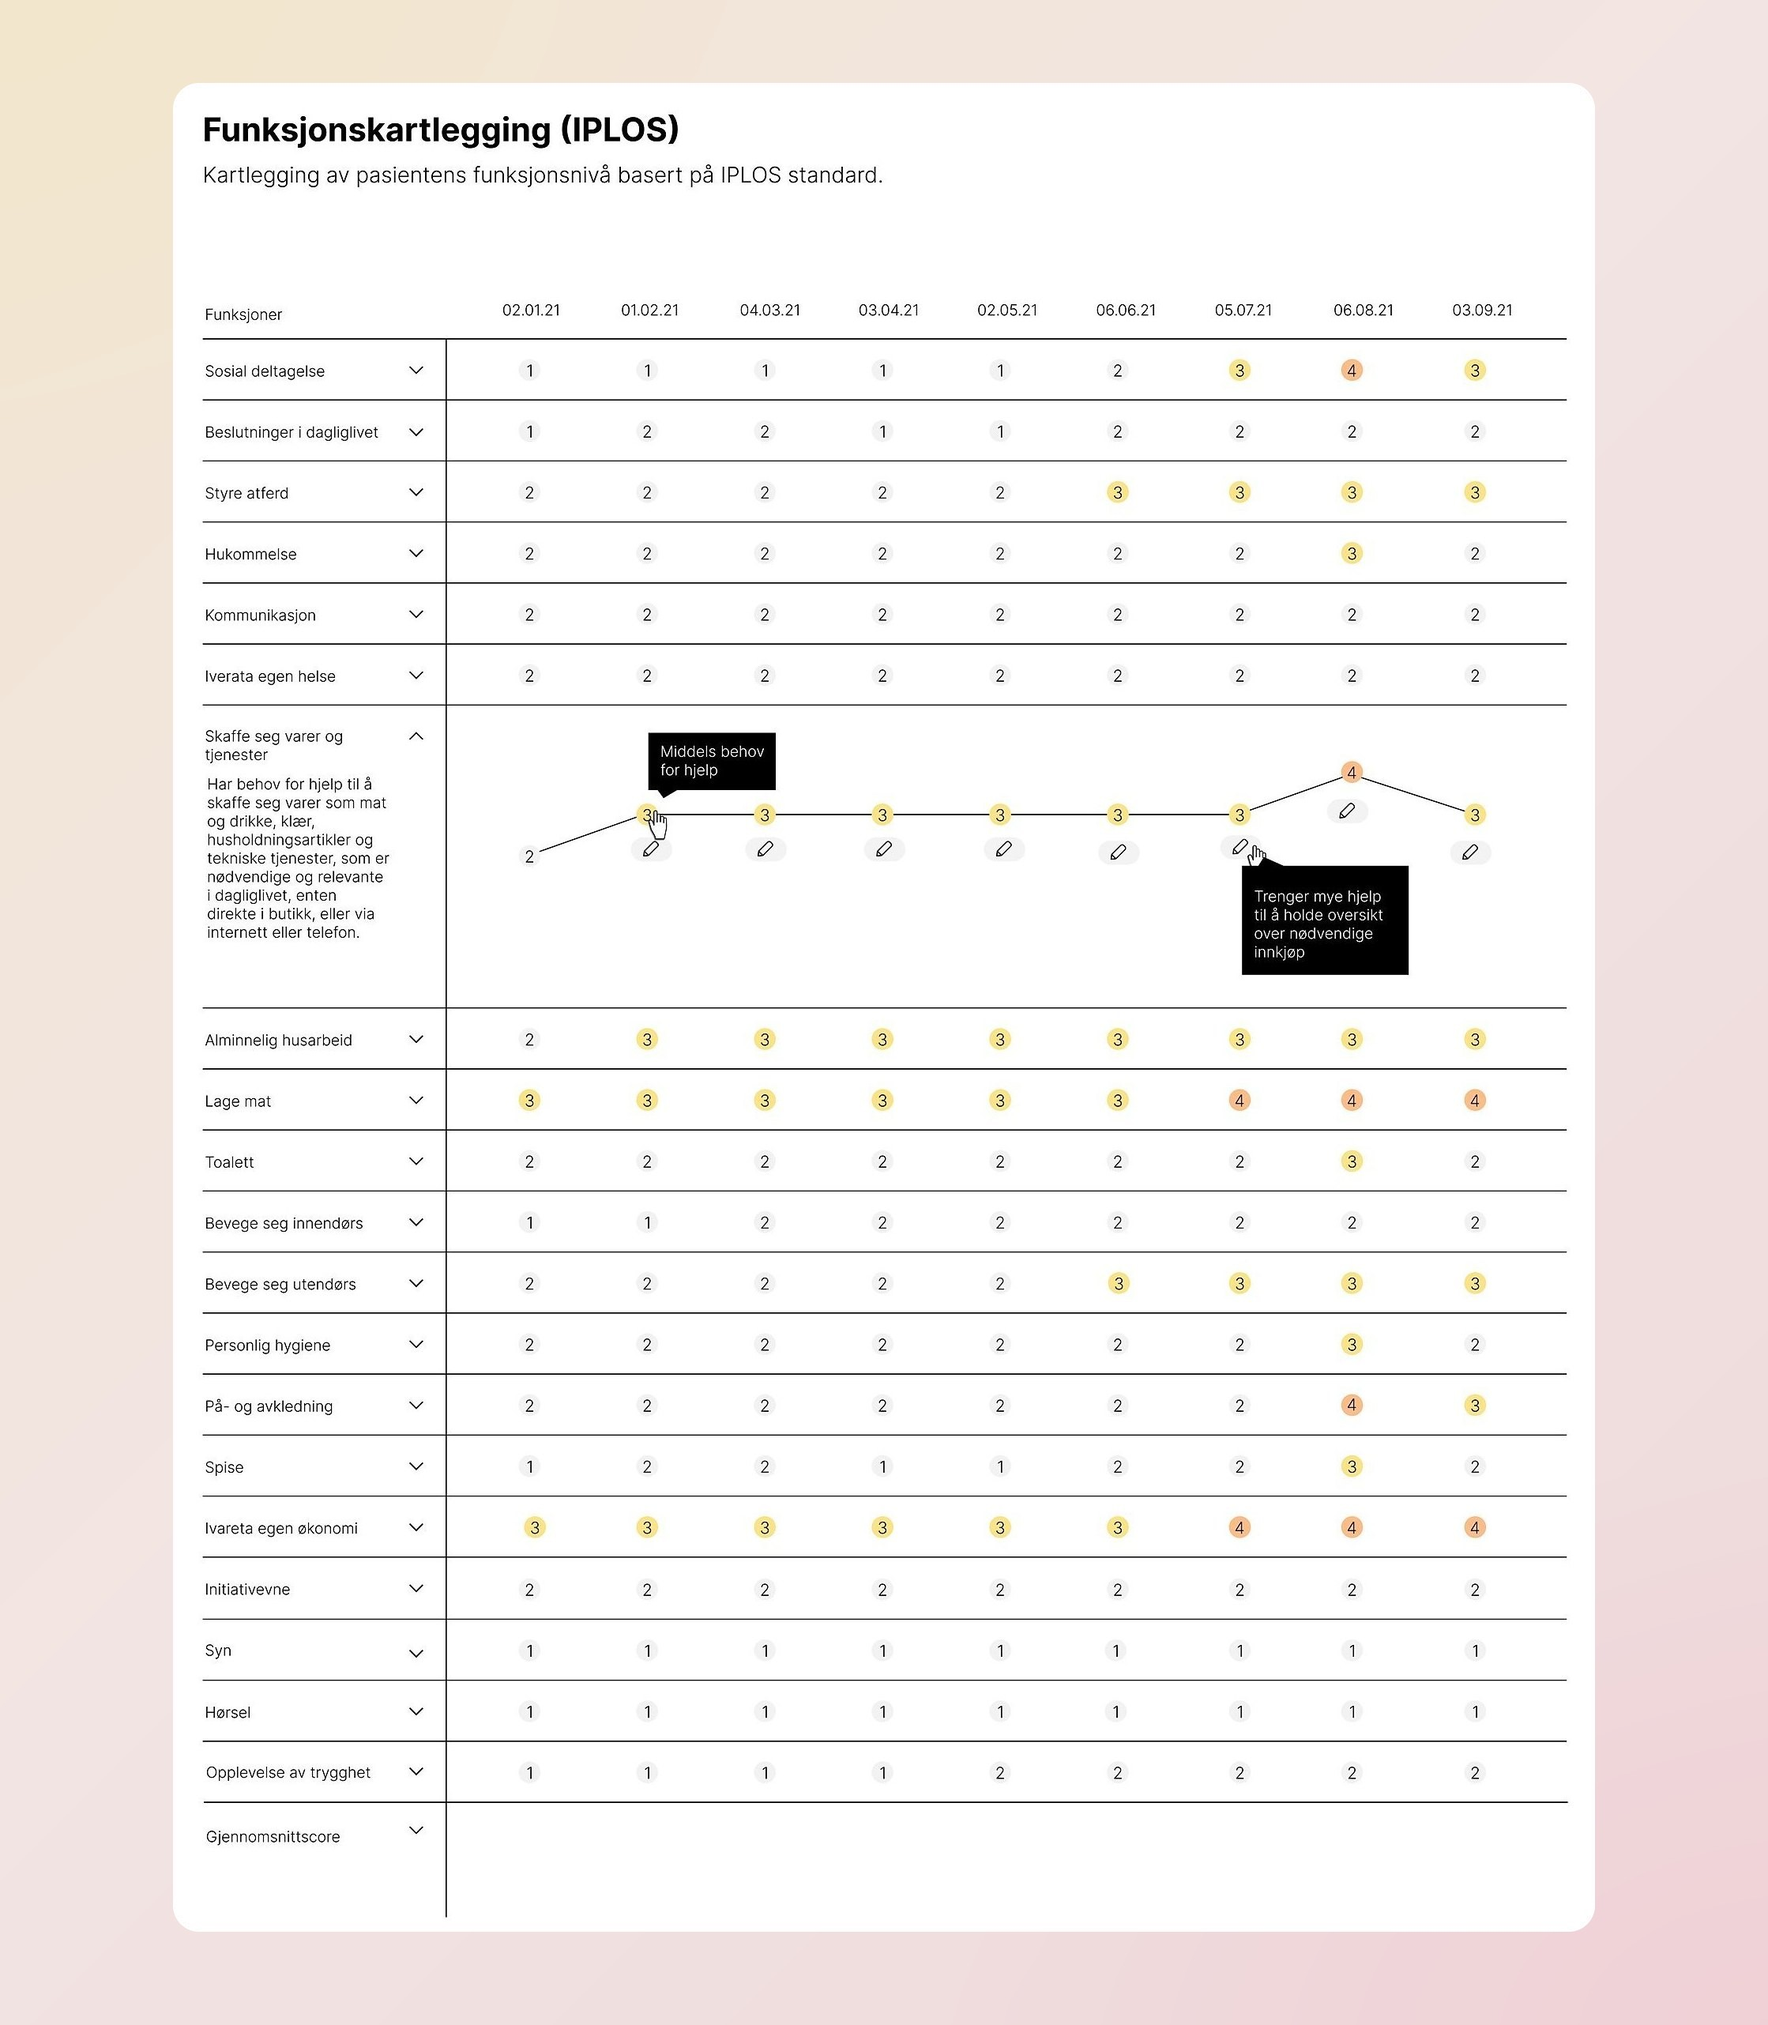
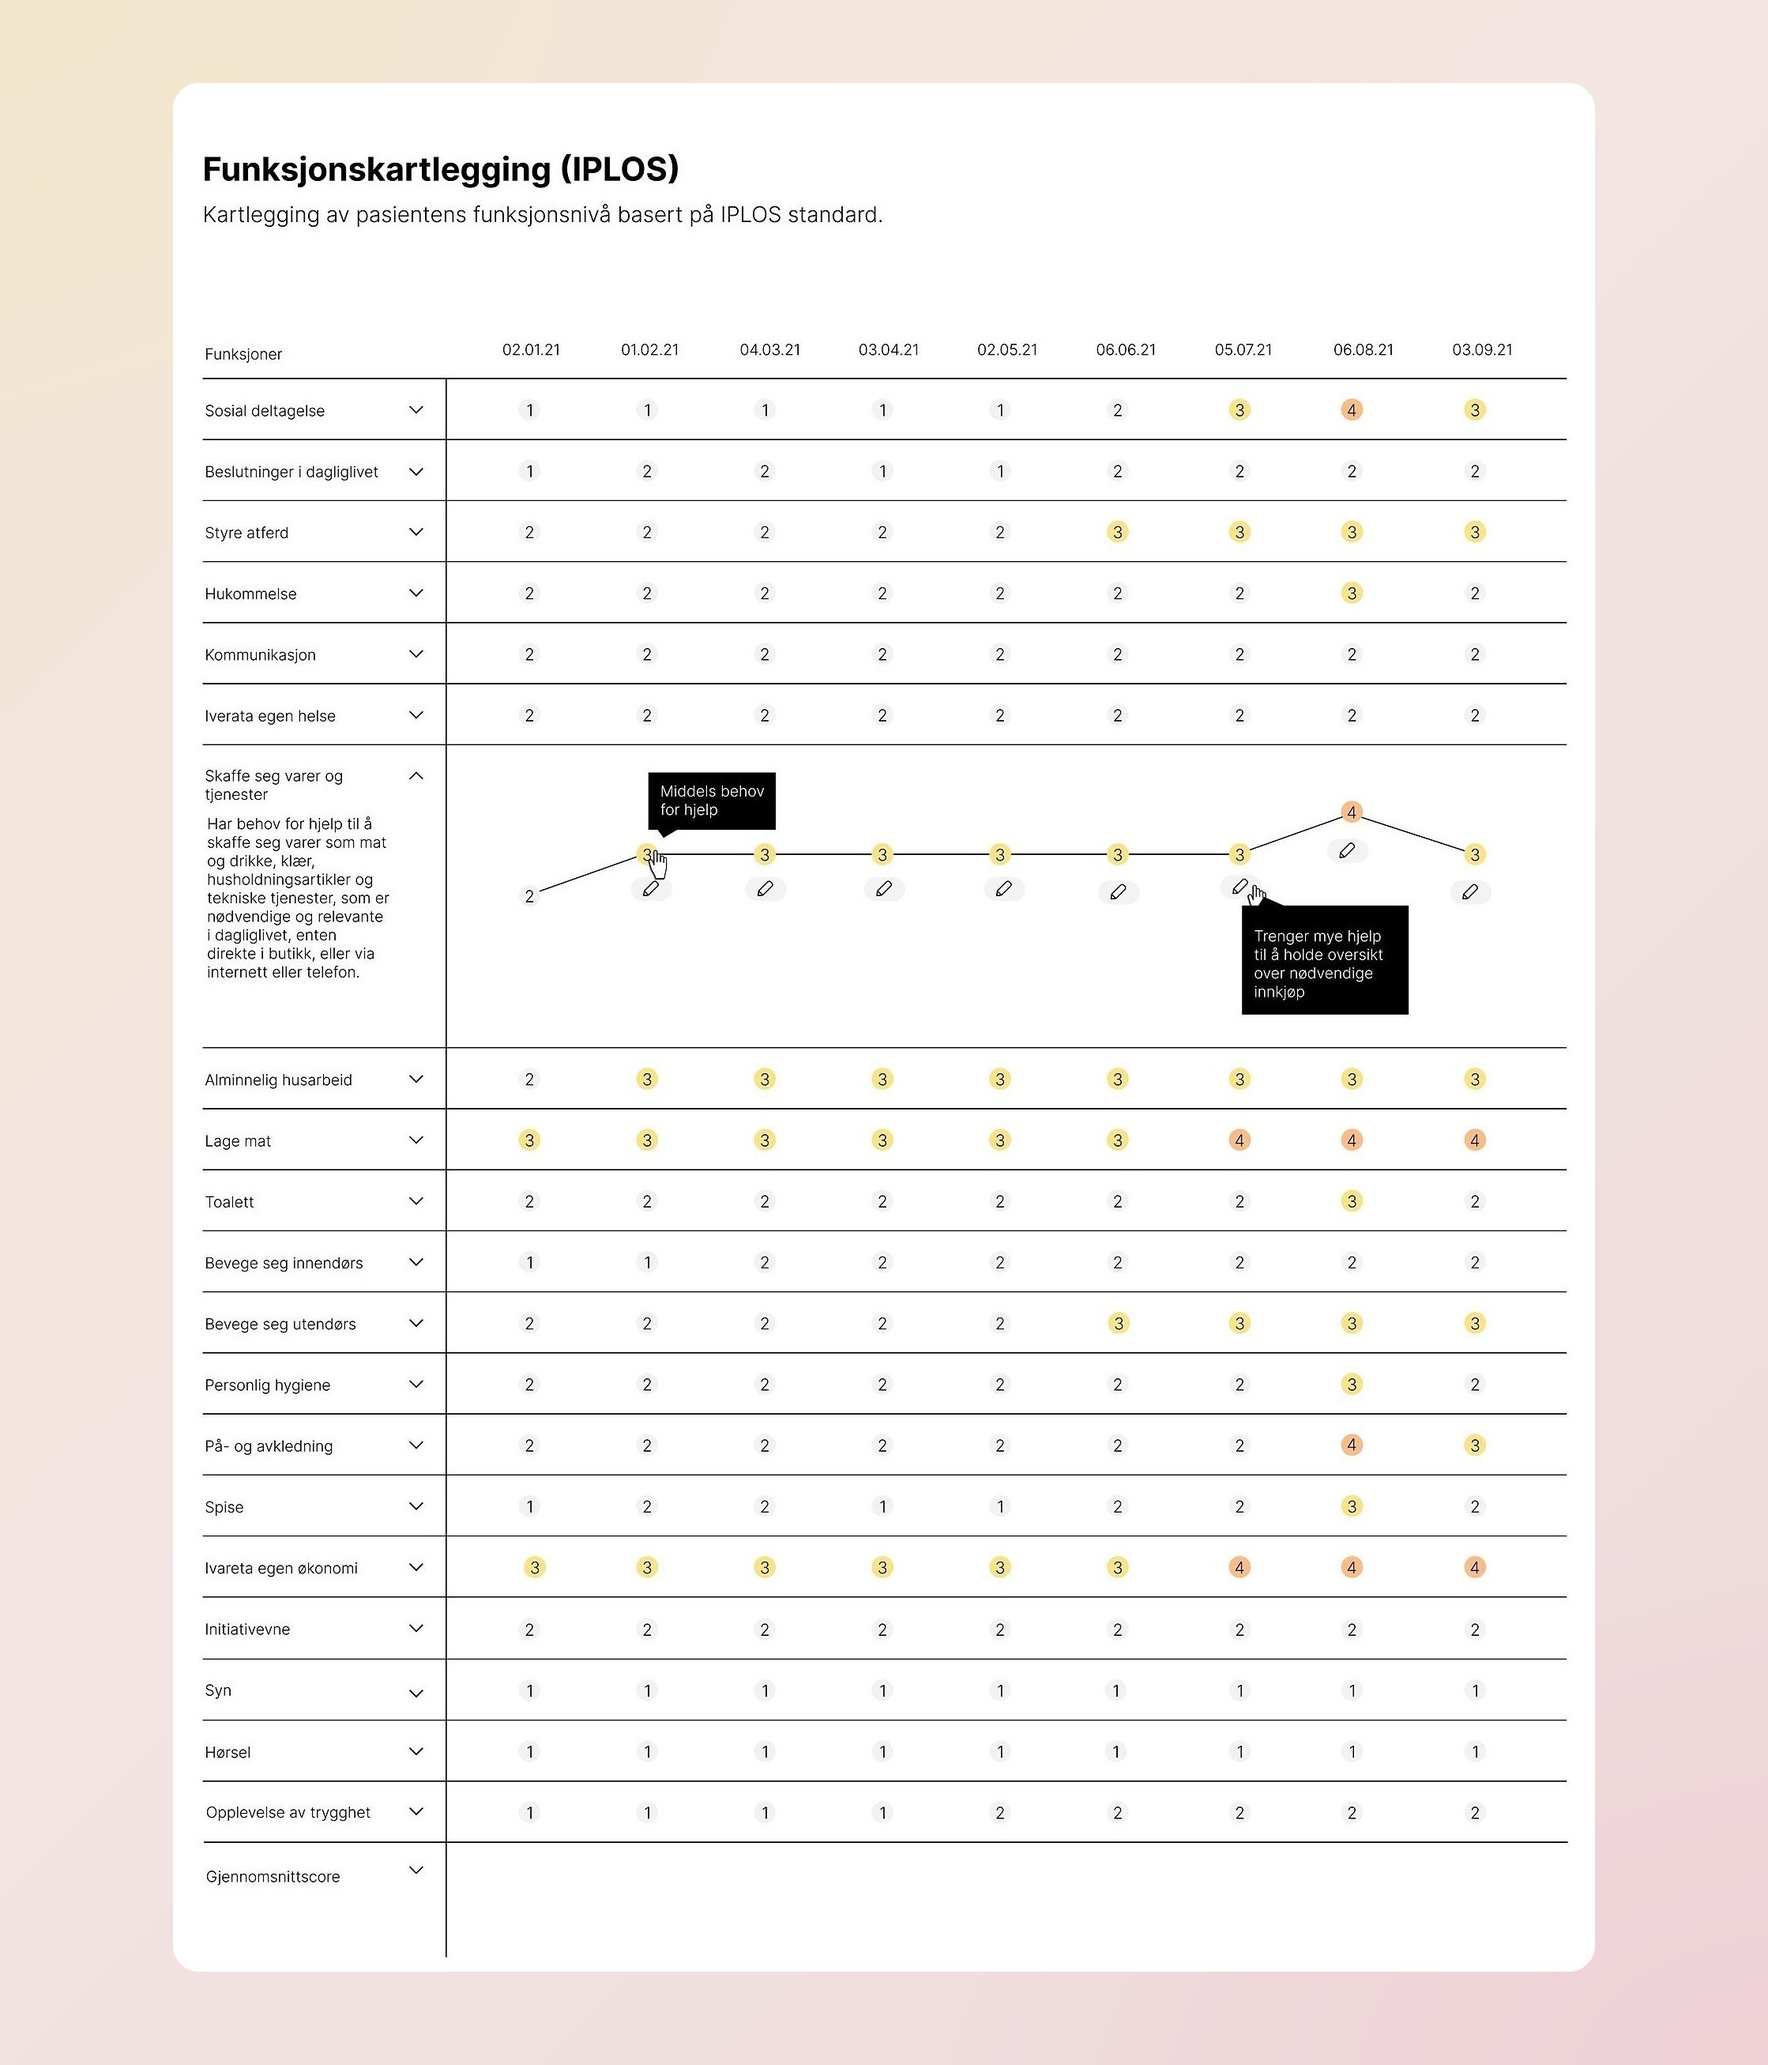
Grey frames for Aidn process images, cleaner lokasjon placeholder, more top space on funksjon
Claude-Session: https://claude.ai/code/session_01FprJxn1e4yq7MQ4AsjED5L

diff --git a/index.html b/index.html
@@ -191,11 +191,11 @@
     <p class="cap">Forberedelse til workshop, og behov fra helse og boligservice og hjemmetjenesten, kartlagt sammen med kommunen.</p>
   </section>
   <section class="part" aria-label="Scenario">
-    <div class="framed"><img src="img/aidn-scenario.jpg?v=3" alt="Scenario som følger pasienten Gerd fra hun faller hjemme, via legevakt, sykehus, tildelingskontor og rehabilitering, til hun kommer hjem igjen med hjemmetjeneste." loading="lazy"></div>
+    <div class="framed"><img src="img/aidn-scenario.jpg?v=4" alt="Scenario som følger pasienten Gerd fra hun faller hjemme, via legevakt, sykehus, tildelingskontor og rehabilitering, til hun kommer hjem igjen med hjemmetjeneste." loading="lazy"></div>
     <p class="cap">Scenario kartlagt sammen med kommunene. Oversikten brukte vi videre i teamet for å skape en felles forståelse av løsningen.</p>
   </section>
   <section class="part" aria-label="Lokasjon">
-    <div class="framed"><img src="img/aidn-lokasjon.jpg?v=3" alt="Skisser av seksjonen Lokasjon på pasientens oversiktsside, vist for tildelingskontor, rehabilitering og hjemmetjenesten i to ulike scenarioer." loading="lazy"></div>
+    <div class="framed"><img src="img/aidn-lokasjon.jpg?v=4" alt="Skisser av seksjonen Lokasjon på pasientens oversiktsside, vist for tildelingskontor, rehabilitering og hjemmetjenesten i to ulike scenarioer." loading="lazy"></div>
     <p class="cap">Videre detaljering av hva hver brukergruppe ser i løsningen.</p>
   </section>
   <div class="prose grid">
@@ -206,7 +206,7 @@
     <p class="cap">Skjema som fungerer uansett hvilken digital enhet du har på jobb. Med forslag til svar går det raskt å fylle ut skjemaer, for eksempel når en sykepleier er i samtale med en pasient.</p>
   </section>
   <section class="part" aria-label="Funksjonskartlegging">
-    <div class="framed"><img src="img/aidn-funksjon.jpg?v=5" alt="Tabell over pasientens funksjonsnivå etter IPLOS, med score per funksjon for ni datoer. En rad er åpnet og viser utviklingen som en linje over tid." loading="lazy"></div>
+    <div class="framed"><img src="img/aidn-funksjon.jpg?v=6" alt="Tabell over pasientens funksjonsnivå etter IPLOS, med score per funksjon for ni datoer. En rad er åpnet og viser utviklingen som en linje over tid." loading="lazy"></div>
     <p class="cap">Konsept for å vise resultater fra funksjonskartlegging over tid.</p>
   </section>
   <nav class="pager" aria-label="Flere prosjekter"><a class="prev" href="#studio"><span class="label">← Forrige</span><span class="t">Impact Startup: Studio</span></a><a class="next" href="#forsikring"><span class="label">Neste prosjekt →</span><span class="t">Forsikringsselskap</span></a></nav>
